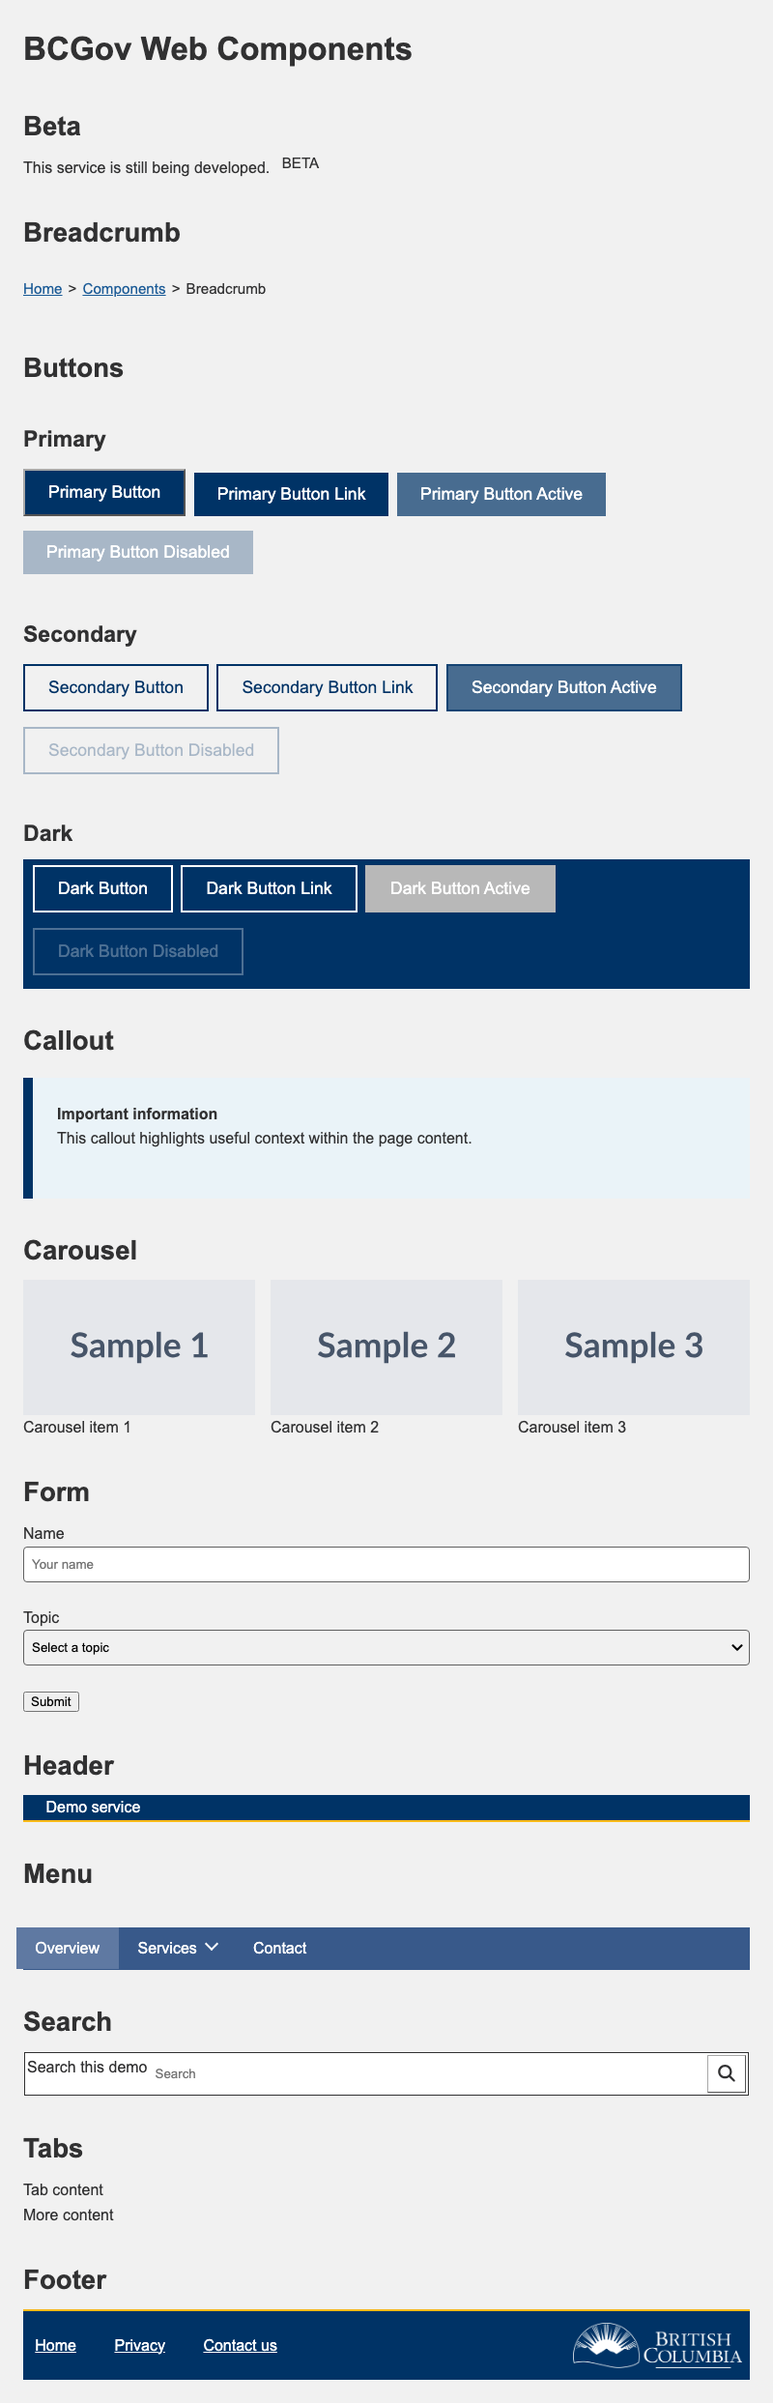
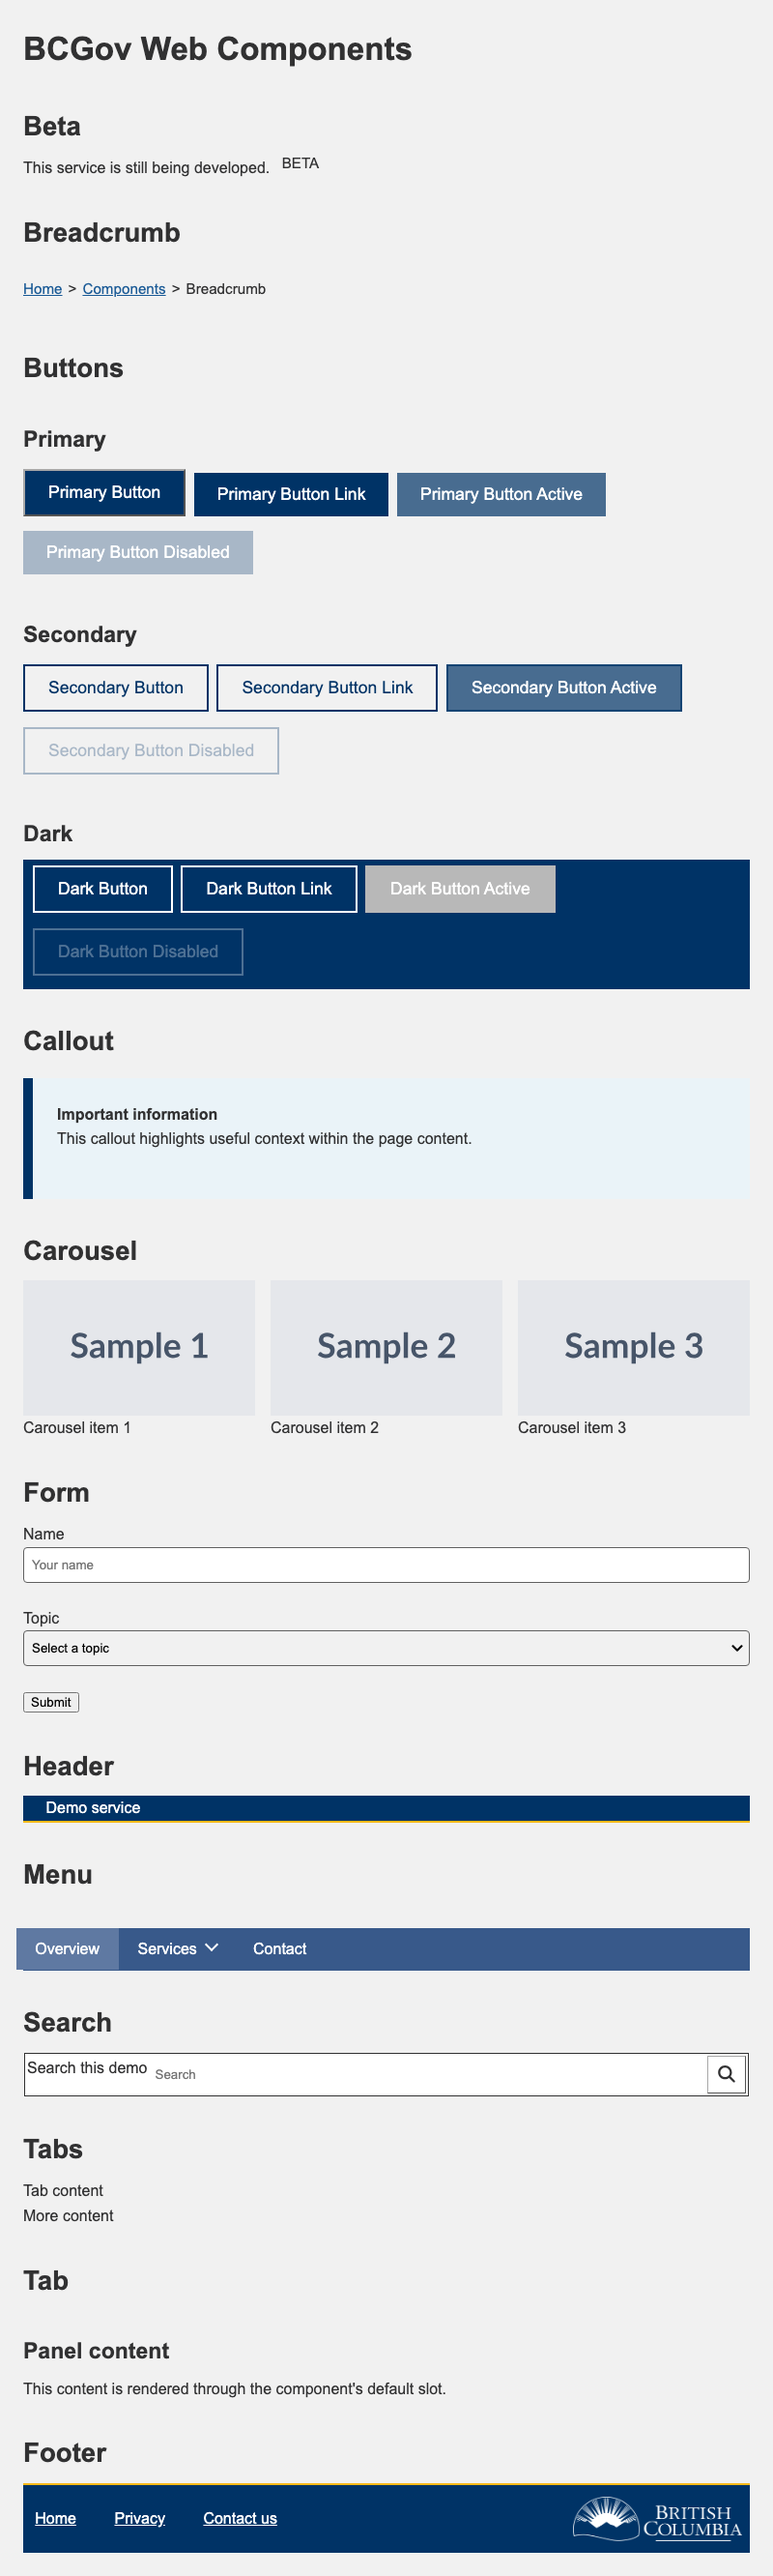
docs(DSWP-1254): add bcgov-tab demo

diff --git a/src/index.html b/src/index.html
@@ -158,6 +158,12 @@
       <div>More content</div>
     </bcgov-tabs>
 
+    <h2>Tab</h2>
+    <bcgov-tab>
+      <h3>Panel content</h3>
+      <p>This content is rendered through the component's default slot.</p>
+    </bcgov-tab>
+
     <h2>Footer</h2>
     <bcgov-footer>
       <bcgov-menu>

diff --git a/README.md b/README.md
@@ -69,7 +69,7 @@ All components should meet or exceed [WCAG 2.0 AA](https://www.w3.org/TR/WCAG20/
 
 The demo shows the components currently available in this package:
 
-![Screenshot of the component demo showing Beta, Breadcrumb, Button, Callout, Carousel, Form, Header, Menu, Search, Tabs, and Footer](screenshot.png)
+![Screenshot of the component demo showing Beta, Breadcrumb, Button, Callout, Carousel, Form, Header, Menu, Search, Tab, Tabs, and Footer](screenshot.png)
 
 - Beta: `<bcgov-beta>`
 - Breadcrumb: `<bcgov-breadcrumb>`
@@ -81,6 +81,7 @@ The demo shows the components currently available in this package:
 - Header: `<bcgov-header>`
 - Menu: `<bcgov-menu>`
 - Search: `<bcgov-search>`
+- Tab: `<bcgov-tab>`
 - Tabs: `<bcgov-tabs>`
 
 ## Development
